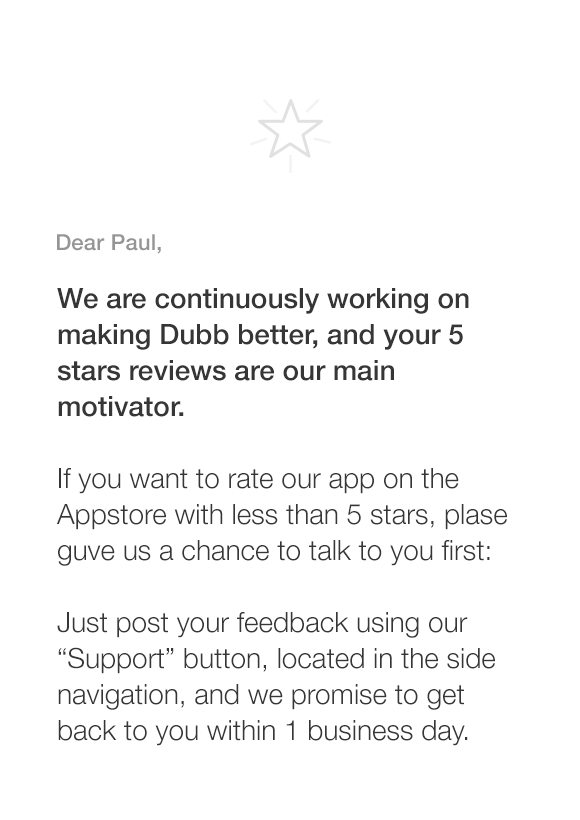
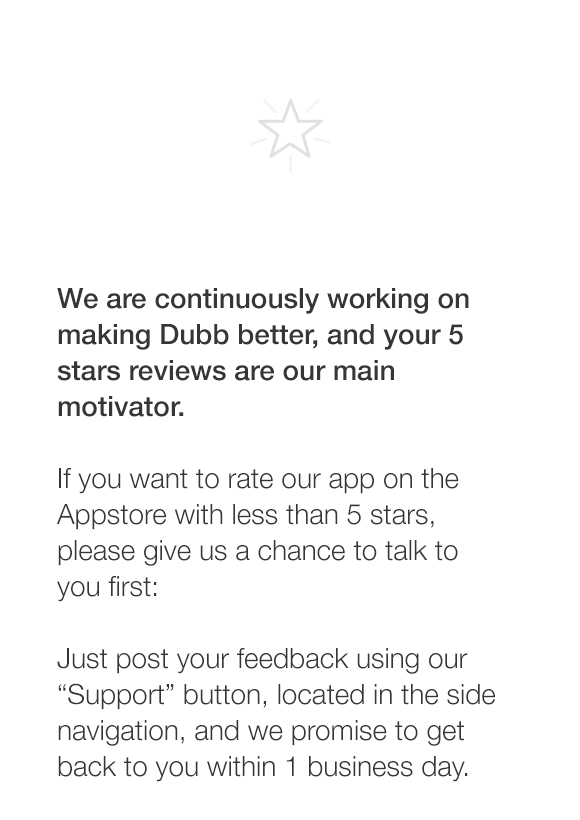
commit 07/22

Changed region(s): [[0.0931, 0.6098, 0.869, 0.9451], [0.0931, 0.2744, 0.2793, 0.3049]]

diff --git a/Dubb/Controllers/Listing/DubbCreateListingTableViewController.m b/Dubb/Controllers/Listing/DubbCreateListingTableViewController.m
@@ -181,6 +181,9 @@ typedef NS_ENUM(NSUInteger, TableViewSection){
     [self.baseServiceDescriptionTextView setPlaceholder:@"Provide an explanation of what are you offering."];
     if (self.listingDetail) {
         [self initViewWithValues];
+        if (addOns.count == 0) {
+            [addOns addObject:[NSMutableDictionary dictionaryWithDictionary:@{@"description":@"", @"price":@12}]];
+        }
     } else{
         [addOns addObject:[NSMutableDictionary dictionaryWithDictionary:@{@"description":@"", @"price":@12}]];
     }
@@ -501,6 +504,7 @@ typedef NS_ENUM(NSUInteger, TableViewSection){
         [self.backend updateListing:self.listingDetail[@"id"] Parameters:params CompletionHandler:^(NSDictionary *result) {
             [self hideProgress];
             [self showMessage:@"Successfully updated the listing."];
+            [self.navigationController popViewControllerAnimated:YES];
             
         }];
         

diff --git a/Dubb/Controllers/Listing/DubbListingsViewController.m b/Dubb/Controllers/Listing/DubbListingsViewController.m
@@ -31,6 +31,7 @@
     
     __weak IBOutlet UILabel *titleLabel;   
     
+    IBOutlet UILabel *nameLabel;
     IBOutlet UIView *shadowView;
     IBOutlet UIView *introductionView;
     __weak IBOutlet UITextField *locationSearchBar;
@@ -63,6 +64,7 @@
 - (void)viewDidLoad {
     [super viewDidLoad];
     // Do any additional setup after loading the view.
+    nameLabel.text =  [NSString stringWithFormat:@"Dear %@,", [User currentUser].firstName];
     if (![[NSUserDefaults standardUserDefaults] boolForKey:@"SHOWN_INTRODUCTION"]) {
         introductionView.hidden = NO;
         shadowView.hidden = NO;
@@ -74,7 +76,6 @@
         introductionView.hidden = YES;
         
     }
-
     [self setupSearch];
     [self setupListingTableView];
 }

diff --git a/Dubb/Controllers/BaseViewController/AuthViewController.m b/Dubb/Controllers/BaseViewController/AuthViewController.m
@@ -345,7 +345,7 @@
 -(void) loginWithUser:(NSMutableDictionary*) params
 {
     [[User currentUser] initialize];
-    [self showProgress:@"Loggin in..."];
+    [self showProgress:@"Logging in..."];
     [self.backend loginWithUsername:params CompletionHandler:^(NSDictionary *result) {
         if( result ){
             [User initialize:result[@"response"]];

diff --git a/Dubb/Controllers/Authentication/DubbIntroViewController.m b/Dubb/Controllers/Authentication/DubbIntroViewController.m
@@ -25,7 +25,7 @@
     NSUserDefaults *defaults = [NSUserDefaults standardUserDefaults];
     id loggedUser = [defaults objectForKey:@"DubbUser"];
     if( loggedUser ){
-        [self showProgress:@"Loggin in..."];
+        [self showProgress:@"Logging in..."];
         [User initialize: (NSDictionary*)loggedUser];
         [self loginToQuickBlox];
     }
